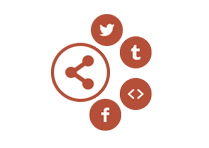
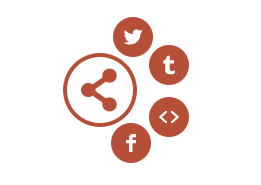
super obvious tagging prompt

diff --git a/public/stylesheets/style.css b/public/stylesheets/style.css
@@ -684,3 +684,22 @@ div.list_header {
   font-weight: bold;
   color: black;
 }
+
+#taggerHelp {
+	width:100%;
+	height:100%;
+	position:absolute;
+	top:0;
+	background-color:rgba(255,255,255,0.6);
+	margin-left:5px;
+	margin-top:5px;
+}
+
+#taggerHelp img {
+	position:absolute;
+	top:10%;
+	margin:auto;
+	width:449px;
+	left:0;
+	right:0;
+}

diff --git a/public/javascripts/controllers/TaggerViewController.js b/public/javascripts/controllers/TaggerViewController.js
@@ -183,5 +183,9 @@ function TaggerViewController($scope, $http, ImageOffsetService, $redirect, $aut
           $redirect('/look/' + id + '?showProgress=1');
         });
   };
-
+  $("#taggerHelp").click(function() {
+  $("#taggerHelp").fadeOut(300);
+  });
 }
+
+

diff --git a/routes/tagger.js b/routes/tagger.js
@@ -12,7 +12,7 @@ var MongoLookFactory = require('../factories/MongoLookFactory.js').MongoLookFact
 
 var Validator = require('../factories/Validator.js').Validator;
 var validator = new Validator();
-
+ 
 /*
  * GET /tagger/:key/:look
  */
